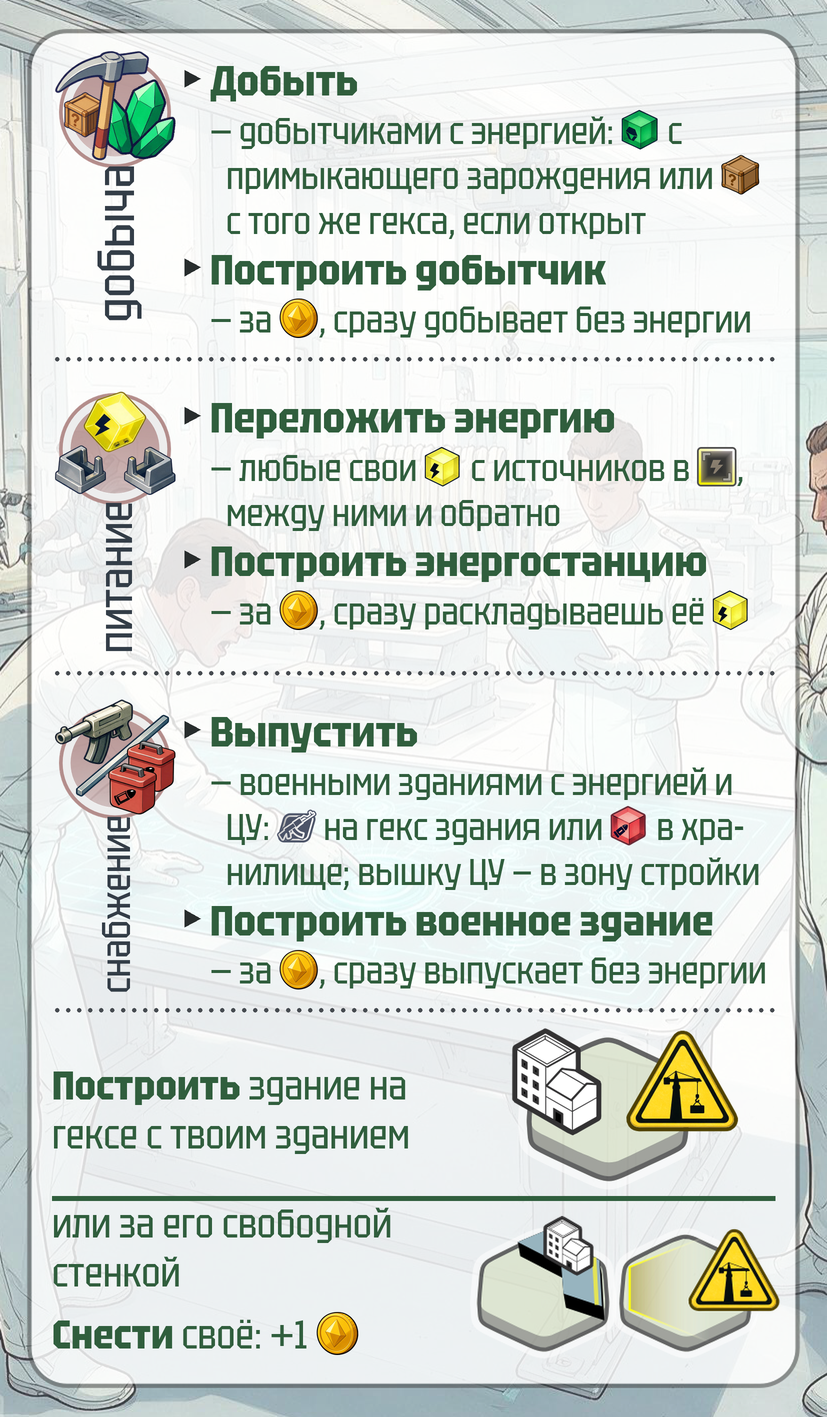
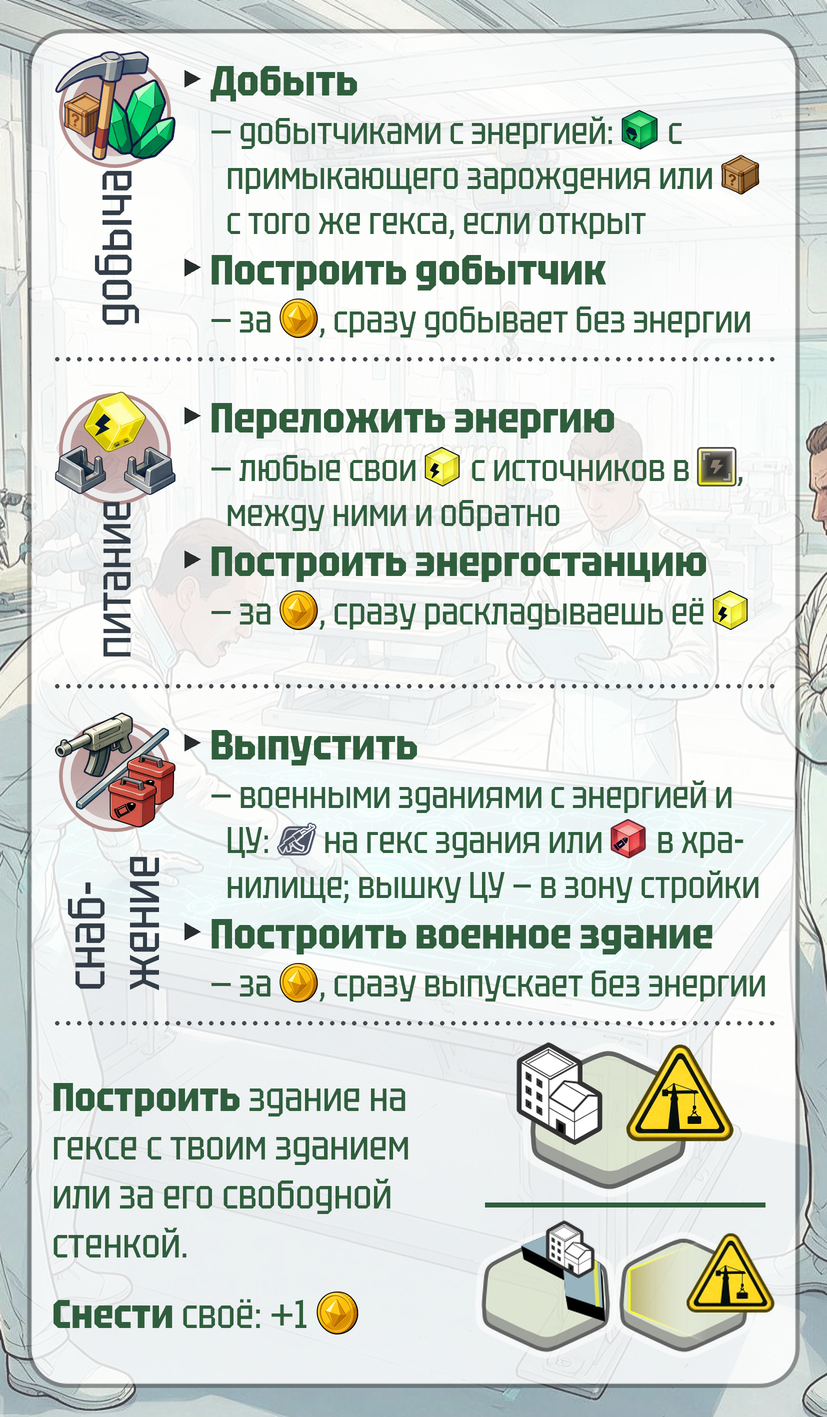
Памятка действий 5.0: подписи разделов по центру свободного места, на кружок — только если тесно, «снаб-жение» в две строки; зона стройки — текст слева одним блоком, черта только между схемами

diff --git a/tools/gen_memo_5.py b/tools/gen_memo_5.py
@@ -192,7 +192,13 @@ def высота_раздела(иконка, подпись, строки, р=4
     """Сколько раздел займёт по высоте: текст или кружок с подписью, что выше."""
     пусто = Image.new('RGBA', (827 * K, 2000 * K))
     конец_текста = раздел(пусто, 0, 10 ** 6, иконка, подпись, строки, р, только_текст=True)
-    return max(конец_текста, 72 + 56 + 150)
+    h = max(конец_текста, 72 + 56 + 150)
+    # подпись одной строкой (с заходом на кружок, кегль 46) — если ради неё
+    # раздел вырастает не больше чем на 60 px; иначе пусть переносится
+    нужно = 72 + 56 - НАХЛЁСТ + шрифт(ОБЫЧНЫЙ, 48 * K).getlength(подпись) / K + 12
+    if нужно <= h + 30:
+        h = max(h, нужно)
+    return h
 
 
 def раздел(холст, y0, y1, иконка, подпись, строки, р=40, только_текст=False):
@@ -206,18 +212,53 @@ def раздел(холст, y0, y1, иконка, подпись, строки,
     холст.alpha_composite(круг, (round(cx * K - круг.width / 2), round(cy * K - круг.height / 2)))
     ико = вписать(икона(иконка), 2.15 * r * K, 2.15 * r * K)
     холст.alpha_composite(ико, (round(cx * K - ико.width / 2), round(cy * K - ико.height / 2 - 6 * K)))
-    # вертикальная подпись снизу вверх под кружком, чуть заходит на него
-    f = шрифт(ОБЫЧНЫЙ, 52 * K)
-    доступно = (y1 - (cy + r - НАХЛЁСТ)) * K
-    while f.getlength(подпись) > доступно and f.size > 24 * K:
-        f = шрифт(ОБЫЧНЫЙ, f.size - 2 * K)
-    tw = int(f.getlength(подпись)) + 8 * K
-    th = int(f.size * 1.3)
+    # ВЕРТИКАЛЬНАЯ ПОДПИСЬ (дизайнер 27.09): по центру свободного места под
+    # кружком, с дыханием; не влезает крупно — в две строки по слогам
+    # («снаб-/жения»); на кружок заходит, только если иначе тесно
+    зазор_к = 14
+    верх_п, низ_п = cy + r + зазор_к, y1 - 6
+    место = (низ_п - верх_п) * K
+    размер = 52 * K
+    f = шрифт(ОБЫЧНЫЙ, размер)
+    строки_п = [подпись]
+    # порядок: одна строка → одна строка с заходом на кружок → она же чуть
+    # мельче (до 44) → две строки по слогам
+    if f.getlength(подпись) > место:
+        с_нахлёстом = место + (НАХЛЁСТ + зазор_к) * K
+        for пробный in range(размер, 47 * K, -2 * K):
+            if шрифт(ОБЫЧНЫЙ, пробный).getlength(подпись) <= с_нахлёстом:
+                верх_п -= НАХЛЁСТ + зазор_к
+                место = с_нахлёстом
+                размер = пробный
+                f = шрифт(ОБЫЧНЫЙ, размер)
+                break
+    if f.getlength(подпись) > место and _СЛОГИ:
+        лучшая = None
+        for левая, правая in _СЛОГИ.iterate(подпись):
+            ш = max(f.getlength(левая + '-'), f.getlength(правая))
+            if лучшая is None or ш < лучшая[0]:
+                лучшая = (ш, [левая + '-', правая])
+        if лучшая and лучшая[0] <= место:
+            строки_п = лучшая[1]
+    длина = max(f.getlength(t) for t in строки_п)
+    if длина > место:                        # тесно: заходим на кружок
+        верх_п -= НАХЛЁСТ + зазор_к
+        место = (низ_п - верх_п) * K
+    while max(f.getlength(t) for t in строки_п) > место and размер > 24 * K:
+        размер -= 2 * K
+        f = шрифт(ОБЫЧНЫЙ, размер)
+    длина = max(f.getlength(t) for t in строки_п)
+    шаг_строк = int(размер * 1.05)
+    tw = int(длина) + 8 * K
+    th = шаг_строк * len(строки_п) + int(размер * 0.3)
     лист = Image.new('RGBA', (tw, th), (0, 0, 0, 0))
-    ImageDraw.Draw(лист).text((4 * K, th // 2), подпись, font=f, fill=СЛАНЕЦ, anchor='lm')
+    dl = ImageDraw.Draw(лист)
+    for i, t in enumerate(строки_п):
+        dl.text((4 * K, int(размер * 0.62) + i * шаг_строк), t, font=f, fill=СЛАНЕЦ, anchor='lm')
     лист = лист.rotate(90, expand=True)
+    y_центр = (верх_п * K + низ_п * K) / 2
     холст.alpha_composite(лист, (round(cx * K - лист.width / 2),
-                                 round((cy + r - НАХЛЁСТ) * K)))
+                                 round(y_центр - лист.height / 2)))
     return _текст(холст, d, y0, строки, р)
 
 
@@ -297,27 +338,28 @@ def карточка_1():
     # общая строка о стройке и схема зоны стройки дизайнера (иконка 76)
     # (пунктир над зоной стройки уже нарисован циклом)
     # текст слева, схема зоны — справа от него, всё внутри рамки (30..797 × 30..1386)
-    # ЗОНА СТРОЙКИ: две половины через черту; в каждой — подпись слева, схема справа
-    верх_з, низ_з = низ + 10, 1376
+    # ЗОНА СТРОЙКИ: слева — текст одним блоком, справа — две схемы одна над
+    # другой, черта только между схемами (дизайнер 27.09)
+    верх_з, низ_з = низ + 12, 1374
     пол = (низ_з - верх_з) / 2
     черта = верх_з + пол
-    d.line((52 * K, черта * K, 775 * K, черта * K), fill=ЗЕЛЁНЫЙ, width=5 * K)
-    колонка = 410
-
-    def по_центру(y_верх, высота, части, р):
-        пробник = Image.new('RGBA', (827 * K, 600 * K))
-        h = абзац(пробник, 52, 0, колонка, части, р)
-        абзац(холст, 52, y_верх + (высота - h) / 2, колонка, части, р)
-
-    по_центру(верх_з, пол, [('ж', 'Построить'), ('т', ' здание на гексе с твоим зданием')], 40)
-    # нижняя половина: подпись к схеме сверху, строка сноса снизу
-    по_центру(черта, пол * 0.55, [('т', 'или за его свободной стенкой')], 40)
-    по_центру(черта + пол * 0.52, пол * 0.48, [('ж', 'Снести'), ('т', ' своё: +1 '), ('и', 'coin')], 40)
-    a = вписать(икона('build_own'), 300 * K, (пол - 16) * K)
-    b = вписать(икона('build_wall'), 310 * K, (пол - 16) * K)
+    колонка = 400
+    части = [('ж', 'Построить'), ('т', ' здание на гексе с твоим зданием или за его '
+             'свободной стенкой.'), ('_', ' ')]
+    пробник = Image.new('RGBA', (827 * K, 900 * K))
+    h1 = абзац(пробник, 52, 0, колонка, части[:2], 40)
+    h2 = абзац(пробник, 52, 0, колонка, [('ж', 'Снести'), ('т', ' своё: +1 '), ('и', 'coin')], 40)
+    межд = 22
+    y_текст = верх_з + (низ_з - верх_з - h1 - межд - h2) / 2
+    абзац(холст, 52, y_текст, колонка, части[:2], 40)
+    абзац(холст, 52, y_текст + h1 + межд, колонка,
+          [('ж', 'Снести'), ('т', ' своё: +1 '), ('и', 'coin')], 40)
     cx = 625
+    a = вписать(икона('build_own'), 290 * K, (пол - 14) * K)
+    b = вписать(икона('build_wall'), 300 * K, (пол - 14) * K)
     холст.alpha_composite(a, (round(cx * K - a.width / 2), round((верх_з + пол / 2) * K - a.height / 2)))
     холст.alpha_composite(b, (round(cx * K - b.width / 2), round((черта + пол / 2) * K - b.height / 2)))
+    d.line(((cx - 140) * K, черта * K, (cx + 140) * K, черта * K), fill=ЗЕЛЁНЫЙ, width=5 * K)
     return холст.resize((W, H), Image.LANCZOS).convert('RGB')
 
 
